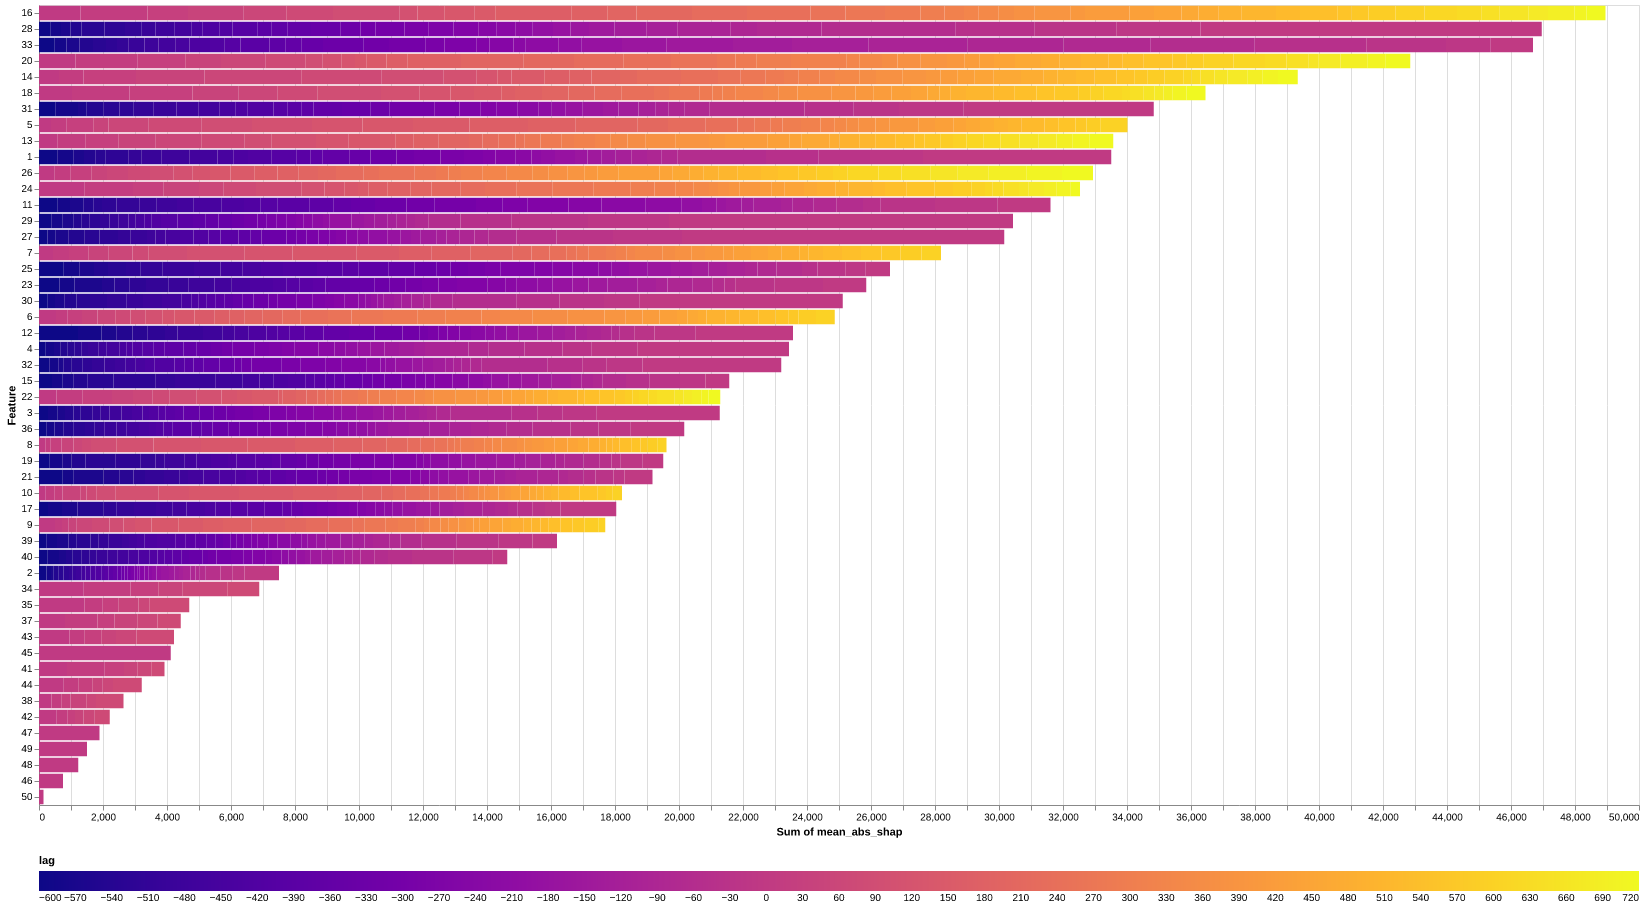
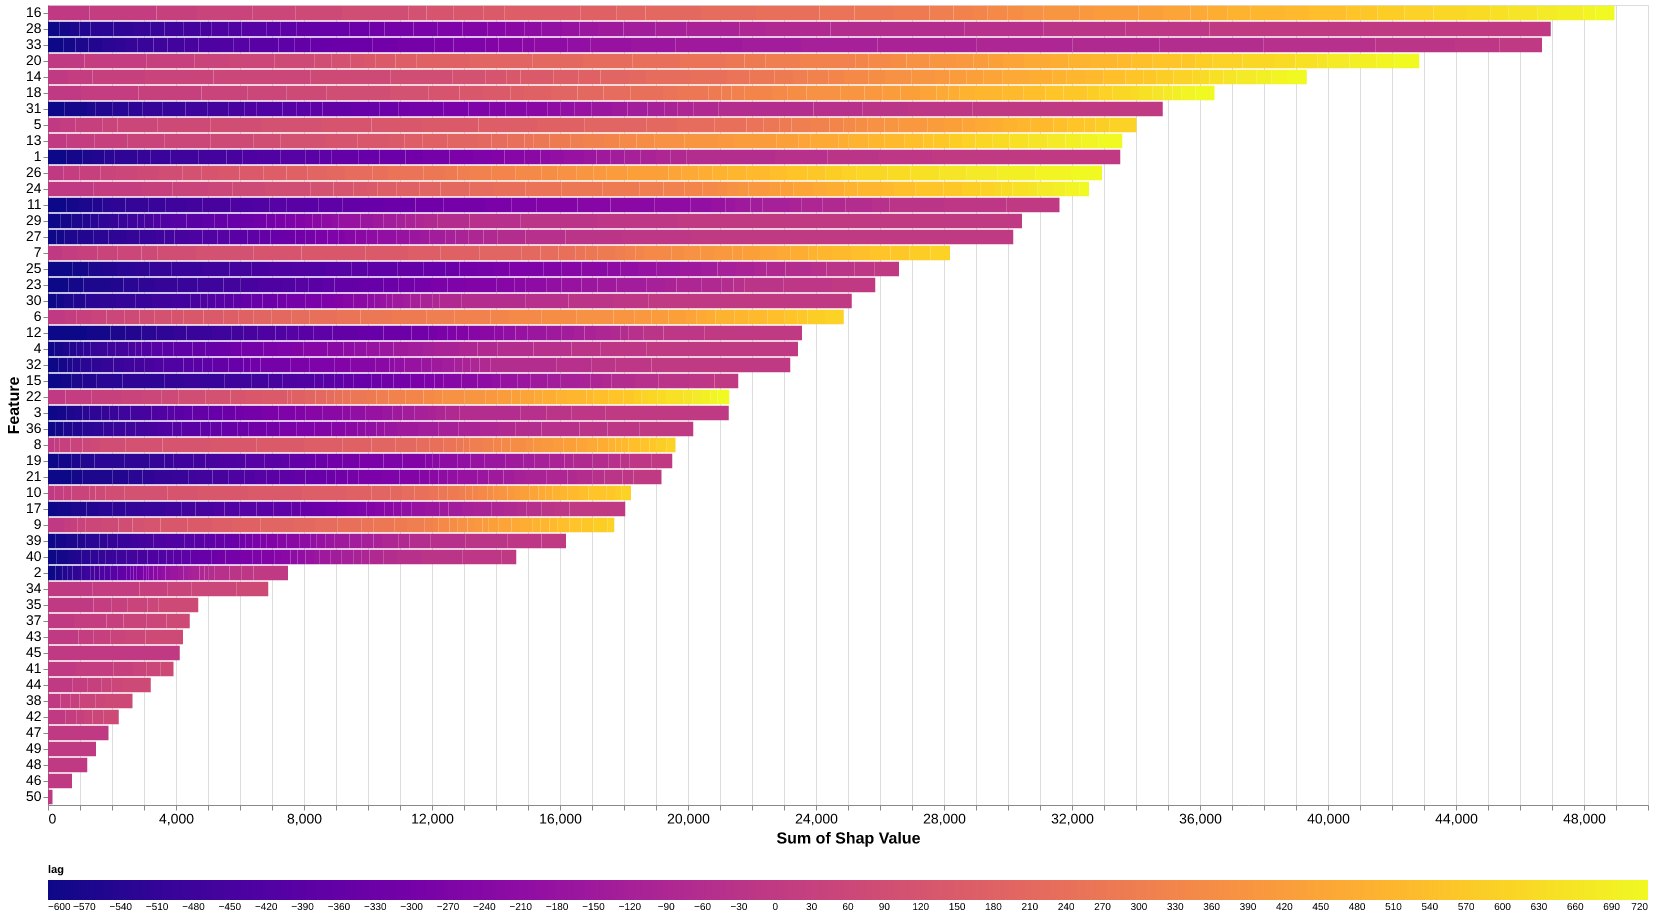
fontsize changes

Changed region(s): [[0.0, 0.0, 1.0, 0.9251], [0.0, 0.9559, 0.496, 1.0], [0.5271, 0.9559, 0.9611, 1.0]]

diff --git a/shap_aggregated_plots.py b/shap_aggregated_plots.py
@@ -11,7 +11,7 @@ def shap_agg_plot(df):
             alt.Chart(df)
             .mark_bar()
             .encode(
-                x="sum(mean_abs_shap)",
+                x=alt.X("sum(mean_abs_shap)", axis=alt.Axis(title="Sum of Shap Value", labelFontSize=14, titleFontSize=16)),
                 y=alt.Y(
                     "Feature:N",
                     sort=alt.EncodingSortField(
@@ -19,6 +19,7 @@ def shap_agg_plot(df):
                         op="sum",  # aggregate operation
                         order="descending",  # descending = biggest on top
                     ),
+                    axis=alt.Axis(title="Feature", labelFontSize=14, titleFontSize=16),
                 ),
                 color=alt.Color("lag:Q").scale(scheme="plasma").legend(values=range(-600, 721, 30)),
                 order=alt.Order(
